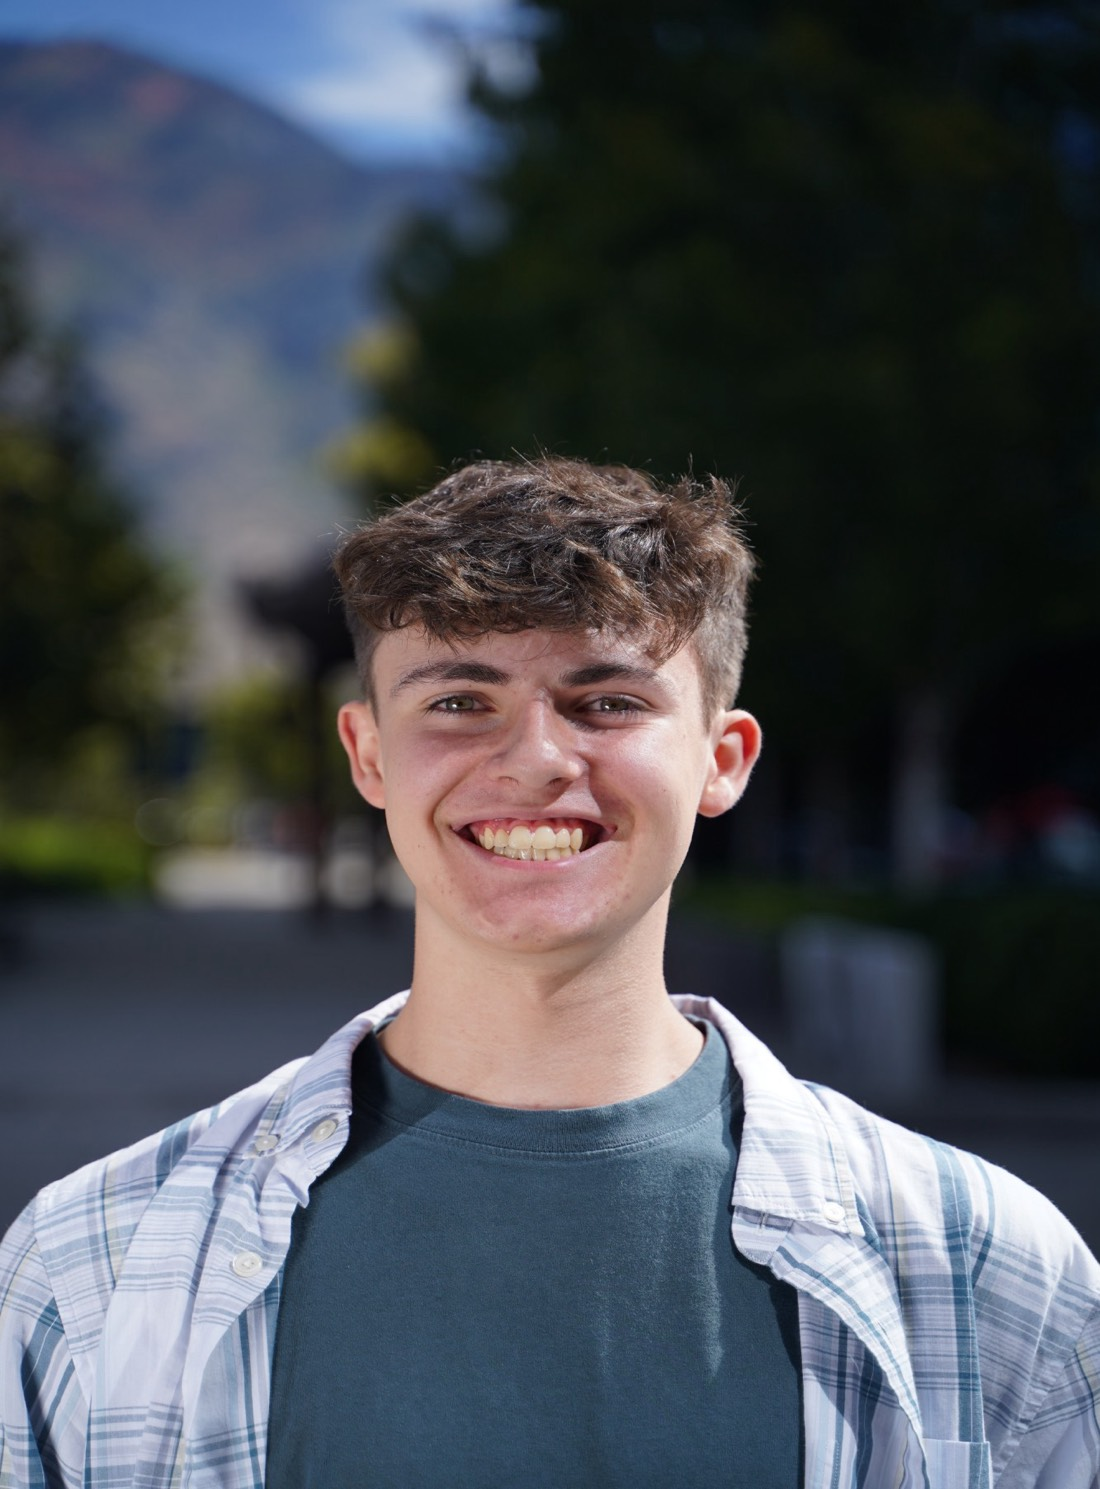
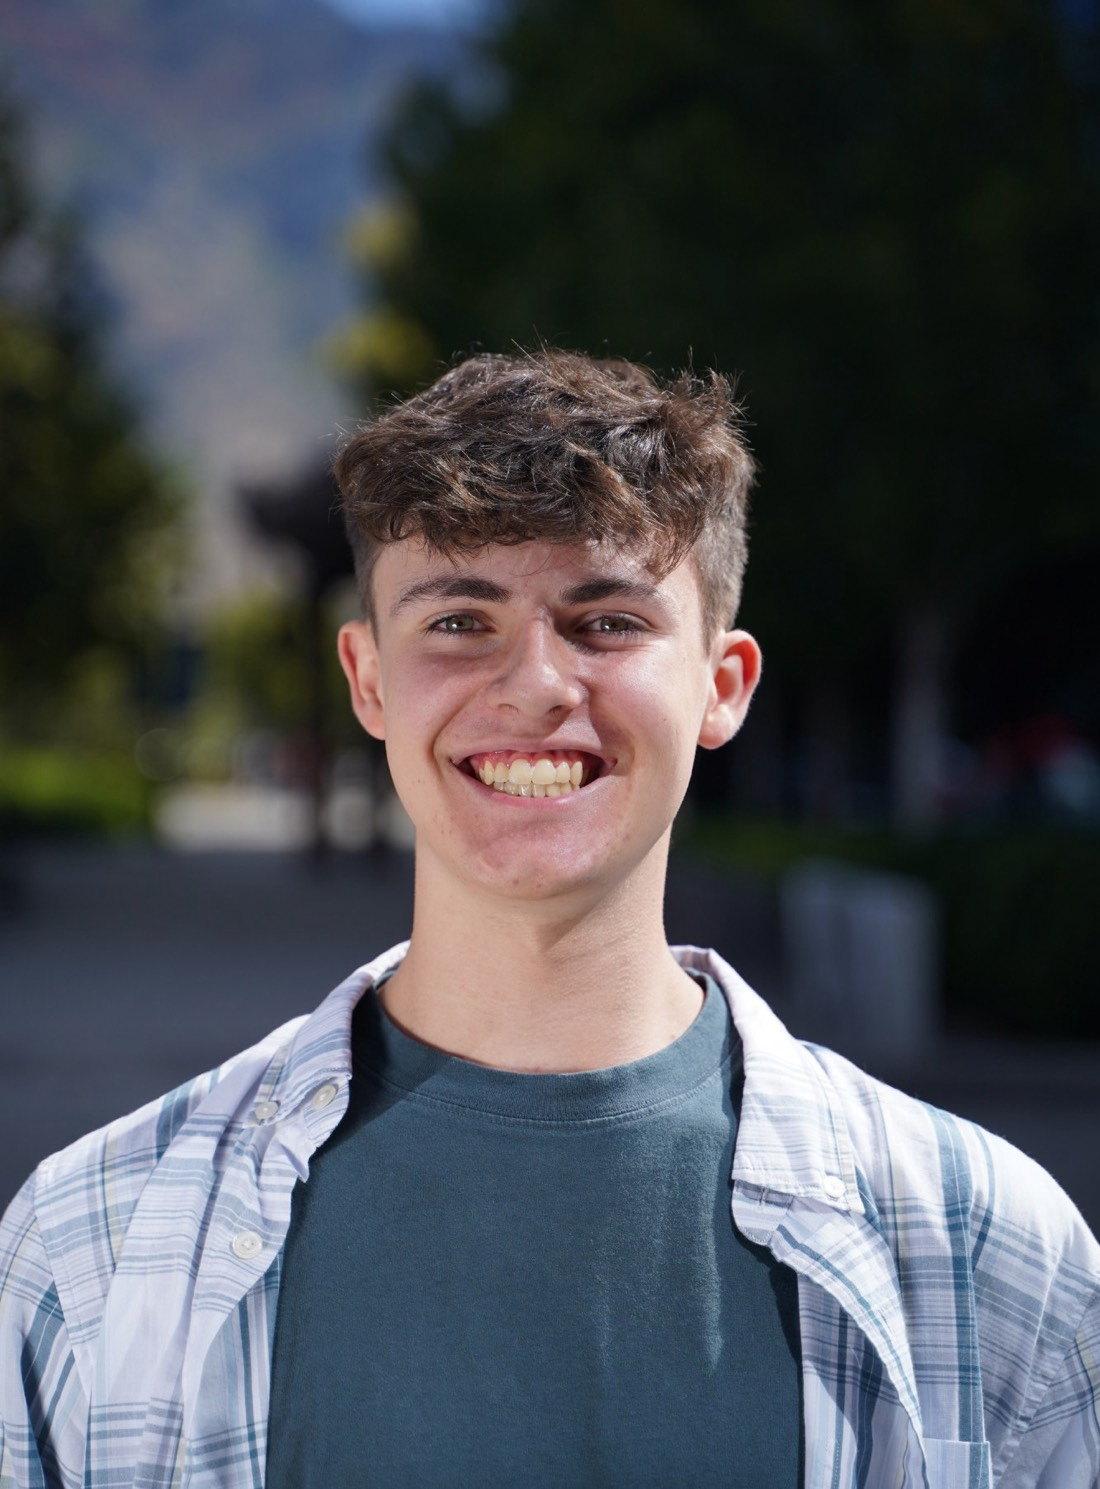
Unstretch the portrait
The crop before the resize never ran, so the whole photo was squeezed
into the old portrait's shape. It is cropped to that shape first now,
and the circle's framing is moved to keep the face centred.

diff --git a/index.html b/index.html
@@ -16,7 +16,7 @@
      plain files with no build step behind them, so nothing in their URLs
      ever changes when their contents do, and a browser holding an old
      copy has no way to know. Bump it whenever either one changes. -->
-<link rel="stylesheet" href="styles.css?v=20260922a">
+<link rel="stylesheet" href="styles.css?v=20260922b">
 <script>
   /* Runs before the first paint, which is the whole point of it.
 
@@ -69,7 +69,7 @@
          then this whole lockup fades up. -->
     <a class="mark" href="#top">
       <span class="mark-face">
-        <img src="assets/portrait.jpg?v=2" width="1100" height="1489" fetchpriority="high" decoding="async"
+        <img src="assets/portrait.jpg?v=3" width="1100" height="1489" fetchpriority="high" decoding="async"
              alt="Jeffrey Hamilton">
       </span>
       <span class="mark-text">
@@ -146,7 +146,7 @@
       <div class="hero-center" data-intro>
         <h1 class="hero-title vh" id="hero-heading">Jeffrey Hamilton</h1>
         <span class="boot-face" aria-hidden="true">
-          <img src="assets/portrait.jpg?v=2" width="1100" height="1489" fetchpriority="high" decoding="async" alt="">
+          <img src="assets/portrait.jpg?v=3" width="1100" height="1489" fetchpriority="high" decoding="async" alt="">
         </span>
       </div>
 

diff --git a/styles.css b/styles.css
@@ -384,7 +384,7 @@ html.head-wait .mark-face { transform: scale(.28); }
 .mark.is-tucked .mark-text > * { transform: translateX(-14px); opacity: 0; }
 .mark.is-tucked.is-open .mark-name  { transform: none; opacity: 1; transition-delay: .04s; }
 .mark.is-tucked.is-open .mark-where { transform: none; opacity: 1; transition-delay: .16s; }
-.mark-face img { width: 100%; height: 100%; object-fit: cover; object-position: 50% 39%; }
+.mark-face img { width: 100%; height: 100%; object-fit: cover; object-position: 50% 17%; }
 
 .mark-text { display: grid; gap: .125rem; }
 /* (overflow and the slide live in the block above) */
@@ -551,7 +551,7 @@ html.head-wait .site-head { opacity: 0; pointer-events: none; }
   width: 100%;
   height: 100%;
   object-fit: cover;
-  object-position: 50% 39%;
+  object-position: 50% 17%;
 }
 .boot-face::after {
   content: "";
